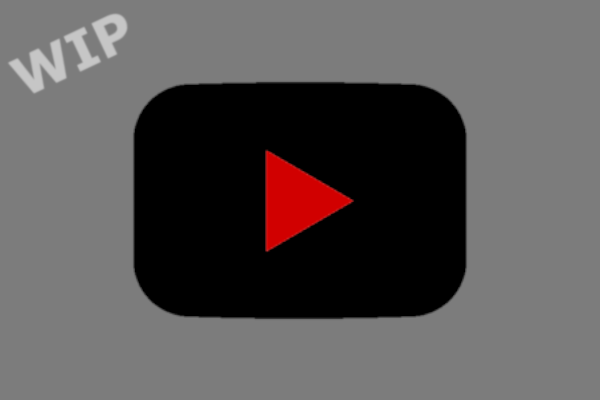
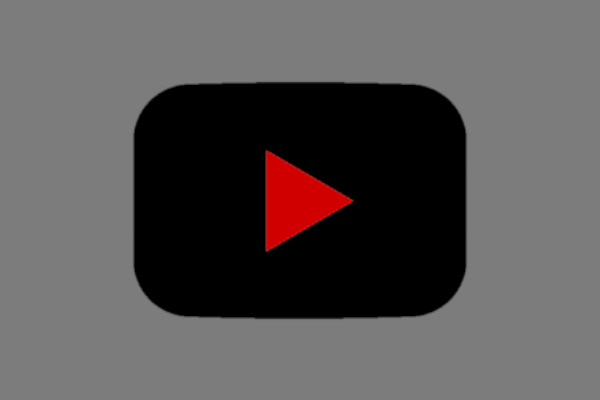
gave overlay to preview images

Changed region(s): [[0.0, 0.03, 0.21, 0.24]]

diff --git a/index.html b/index.html
@@ -49,7 +49,15 @@
 				$.each( group, function( index, project ) {
 					if (index > 2)
 						return false;
-					items.push("<div class=\"responsive\"><div class=\"gallery\"><a href=\"/projects/#" + project.page + "\"><img src=\"" + project.image + "\" alt=\"" + project.name + "\" width=\"600\" height=\"400\"></a><div class=\"desc\">" + project.name + "</div></div></div>");
+					
+					if (project.status == "WIP")
+						items.push("<div class=\"responsive\"><div class=\"gallery\"><a href=\"/projects/#" + project.page + "\"><div data-content=\"/images/wip.png\" class=\"image\"><img src=\"" + project.image + "\" alt=\"" + project.name + "\" width=\"600\" height=\"400\"></div></a><div class=\"desc\">" + project.name + "</div></div></div>");
+					else if (project.status == "Hold")
+						items.push("<div class=\"responsive\"><div class=\"gallery\"><a href=\"/projects/#" + project.page + "\"><div data-content=\"/images/hold.png\" class=\"image\"><img src=\"" + project.image + "\" alt=\"" + project.name + "\" width=\"600\" height=\"400\"></div></a><div class=\"desc\">" + project.name + "</div></div></div>");
+					else if (project.status == "Archived")
+						items.push("<div class=\"responsive\"><div class=\"gallery\"><a href=\"/projects/#" + project.page + "\"><div data-content=\"/images/archived.png\" class=\"image\"><img src=\"" + project.image + "\" alt=\"" + project.name + "\" width=\"600\" height=\"400\"></div></a><div class=\"desc\">" + project.name + "</div></div></div>");
+					else
+						items.push("<div class=\"responsive\"><div class=\"gallery\"><a href=\"/projects/#" + project.page + "\"><img src=\"" + project.image + "\" alt=\"" + project.name + "\" width=\"600\" height=\"400\"></a><div class=\"desc\">" + project.name + "</div></div></div>");
 				});
 				projects.push(items.reverse());
 			});

diff --git a/projects/index.html b/projects/index.html
@@ -7,7 +7,7 @@
 		<meta name="keywords" content="personal, Unity shaders, downloads, information, Joshuarox100, JoshuaB57">
 		<meta name="description" content="Personal site with some of my projects and info">
 		<meta name="author" content="Joshuarox100">
-		<title>Joshuarox100</title>
+		<title>Project Details</title>
 		<link href='https://fonts.googleapis.com/css?family=Cuprum' rel='stylesheet'>
 		<link rel="stylesheet" href="/styles.css">
 		<link rel="icon" href="/images/avatar.png">

diff --git a/styles.css b/styles.css
@@ -188,3 +188,18 @@ div.desc {
 .dropdown:hover .dropbtn {
   background-color: #3e8e41;
 }
+
+.image {
+    position:relative;
+}
+.image img {
+    width:100%;
+    vertical-align:top;
+}
+.image:after {
+    content: attr(data-content);
+    position:absolute;
+    width:100%; height:100%;
+    top:0; left:0;
+    opacity:1;
+}
